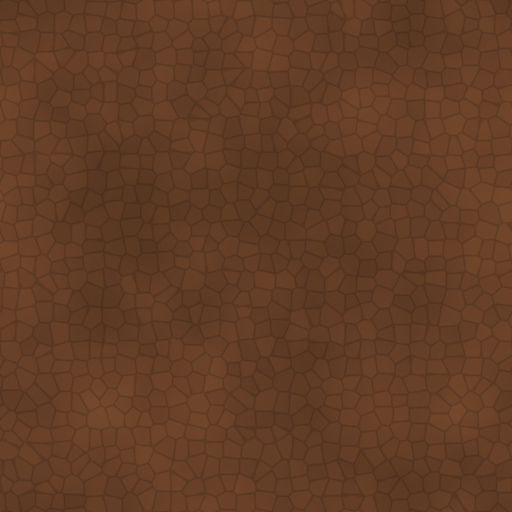
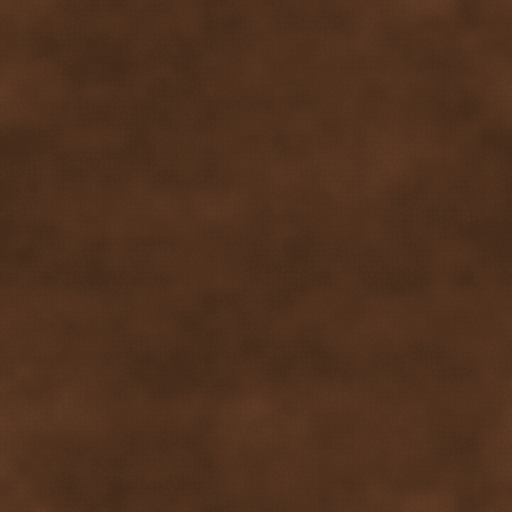
Leather rebaked as fine grain with soft creases (it read as cobblestones on the Rogue and Ranger); Plague Doctor vials 15 and blight 9/s; pickup toasts beside the crosshair; affliction callouts wait for boss intros; softer affliction edges

diff --git a/Assets/Scripts/UI/GameHud.cs b/Assets/Scripts/UI/GameHud.cs
@@ -1779,7 +1779,8 @@ namespace Deepbound.UI
 
         private void DrawToasts(float w, float h)
         {
-            float y = h * 0.6f;
+            // To the right of the crosshair, clear of gear cards (below) and prompts (under the crosshair).
+            float y = h * 0.42f, x = w / 2f + 70f;
             for (int i = toasts.Count - 1; i >= 0; i--)
             {
                 var t = toasts[i];
@@ -1788,8 +1789,8 @@ namespace Deepbound.UI
                 float a = Mathf.Clamp01((1.8f - age) / 0.5f);
                 float pop = 1f + 0.25f * Mathf.Clamp01(1f - age / 0.15f);
                 string text = (t.Amount > 1 || t.Key == "gold" || t.Key == "embers" ? "+" + t.Amount : "+") + t.Suffix;
-                var st = new GUIStyle(center) { fontSize = Mathf.RoundToInt(17 * pop), fontStyle = FontStyle.Bold, normal = { textColor = new Color(t.Color.r, t.Color.g, t.Color.b, a) } };
-                UiSkin.Shadowed(new Rect(0, y - age * 14f, w, 26), text, st, a);
+                var st = new GUIStyle(center) { fontSize = Mathf.RoundToInt(16 * pop), fontStyle = FontStyle.Bold, alignment = TextAnchor.MiddleLeft, normal = { textColor = new Color(t.Color.r, t.Color.g, t.Color.b, a) } };
+                UiSkin.Shadowed(new Rect(x, y - age * 12f, w / 2f - 90f, 26), text, st, a);
                 y += 24f;
             }
         }
@@ -2421,7 +2422,7 @@ namespace Deepbound.UI
             void Edge(bool on, Color c, float rate)
             {
                 if (!on) return;
-                float p = 0.45f + 0.25f * Mathf.Sin(Time.time * rate);
+                float p = 0.3f + 0.18f * Mathf.Sin(Time.time * rate);
                 GUI.color = new Color(c.r, c.g, c.b, p);
                 GUI.DrawTexture(new Rect(0, 0, w, h), VignetteTex, ScaleMode.StretchToFill);
             }
@@ -2432,8 +2433,10 @@ namespace Deepbound.UI
             Edge(root, new Color(0.4f, 0.55f, 0.2f), 2f);
             GUI.color = old;
 
+            // Never over a boss's name card: the callout waits for the intro to finish.
+            if (BossIntroShowing && afflictText != null && Time.time - afflictAt < 2.4f) afflictAt = Time.time;
             float age = Time.time - afflictAt;
-            if (afflictText != null && age < 2.4f)
+            if (afflictText != null && age < 2.4f && !BossIntroShowing)
             {
                 float a = Mathf.Clamp01((2.4f - age) / 0.6f);
                 float pop = 1f + 0.35f * Mathf.Clamp01(1f - age / 0.18f);

diff --git a/Assets/Editor/ArtBaker.cs b/Assets/Editor/ArtBaker.cs
@@ -52,7 +52,7 @@ namespace Deepbound.EditorTools
             BakeSurface("Gold", lit, (x, y) => Tint(BrushedMetal(x, y), new Color(1f, 0.78f, 0.35f)), 0.7f, 1f, 0.5f);
             BakeSurface("Bone", lit, BoneSurface, 0.25f, 0f, 1.4f);
             BakeSurface("Cloth", lit, ClothWeave, 0.08f, 0f, 0.45f);
-            BakeSurface("Leather", lit, LeatherSurface, 0.3f, 0f, 1.0f);
+            BakeSurface("Leather", lit, LeatherSurface, 0.32f, 0f, 0.4f);
             BakeSurface("Rubble", lit, Rubble, 0.08f, 0f, 3f);
             BakeSurface("Marble", lit, Marble, 0.18f, 0f, 0.5f);
 
@@ -369,14 +369,20 @@ namespace Deepbound.EditorTools
             return c;
         }
 
+        /// <summary>
+        /// Leather (rebaked 2026-10-20: the old 30-cell Voronoi read as cobblestones, so the Rogue and Ranger
+        /// looked made of rock): a fine pore grain, long soft creases and a little wear, with gentle relief.
+        /// </summary>
         private static Color LeatherSurface(float u, float v)
         {
-            Voronoi(u * 30f, v * 30f, 30, out float d1, out float d2, out float id);
-            float pores = Mathf.Clamp01((d2 - d1) * 6f);
-            float n = Fbm(u, v, 5f, 5f, 3, 71) * 0.15f;
-            float tone = 0.3f + n + id * 0.03f;
-            var c = new Color(tone, tone * 0.62f, tone * 0.38f) * (0.85f + pores * 0.15f);
-            c.a = pores;
+            Voronoi(u * 90f, v * 90f, 90, out float d1, out float d2, out float id);
+            float pores = Mathf.Clamp01((d2 - d1) * 3.5f);
+            float grain = Fbm(u, v, 22f, 22f, 3, 71);
+            float crease = Fbm(u, v, 3f, 10f, 3, 73);
+            float wear = Mathf.Clamp01((Fbm(u, v, 6f, 6f, 3, 74) - 0.55f) * 3f);
+            float tone = 0.31f + (grain - 0.5f) * 0.05f + (crease - 0.5f) * 0.07f + wear * 0.05f;
+            var c = new Color(tone, tone * 0.62f, tone * 0.38f) * (0.95f + pores * 0.05f);
+            c.a = 0.5f + (crease - 0.5f) * 0.6f + pores * 0.08f + (grain - 0.5f) * 0.1f;
             return c;
         }
 

diff --git a/Assets/Scripts/Player/PlagueDoctorKit.cs b/Assets/Scripts/Player/PlagueDoctorKit.cs
@@ -30,8 +30,8 @@ namespace Deepbound.Player
     [RequireComponent(typeof(Health))]
     public class PlagueDoctorKit : NetworkBehaviour, IClassKit
     {
-        public const float VialInterval = 0.55f, VialCost = 7f, VialDamage = 13f, VialSpeed = 19f, VialRange = 20f, VialGravity = 9f, SplashRadius = 1.7f;
-        public const float BlightSeconds = 4f, BlightDps = 7f;
+        public const float VialInterval = 0.55f, VialCost = 7f, VialDamage = 15f, VialSpeed = 19f, VialRange = 20f, VialGravity = 9f, SplashRadius = 1.7f;
+        public const float BlightSeconds = 4f, BlightDps = 9f;
         public const float TonicCooldown = 7f, TonicCost = 25f, TonicRadius = 3f, TonicHeal = 0.2f;
         public const float MiasmaCooldown = 12f, MiasmaRadius = 4f, MiasmaSeconds = 6f, MiasmaDps = 9f;
         public const float MaskCooldown = 18f, MaskRadius = 8f, MaskHeal = 0.1f, MaskWard = 4f;
